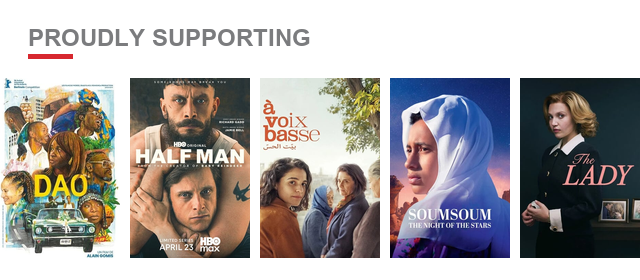
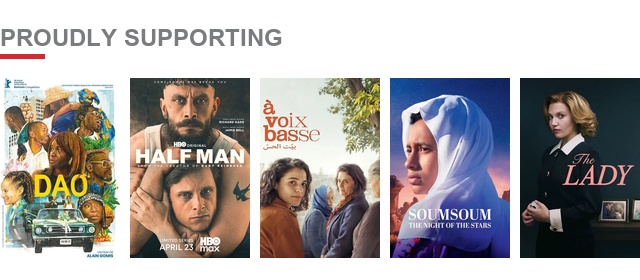
Headline: flush-left to match edge-to-edge poster row

Changed region(s): [[0.0, 0.0857, 0.5, 0.2286]]

diff --git a/banner/compositor.py b/banner/compositor.py
@@ -120,10 +120,10 @@ def compose(credits: List[Credit]) -> Image.Image:
     img = Image.new("RGBA", (W, H), (0, 0, 0, 0))
     draw = ImageDraw.Draw(img)
 
-    # --- "PROUDLY SUPPORTING" left-aligned with padding ---
+    # --- "PROUDLY SUPPORTING" flush-left, aligned with edge-to-edge poster row ---
     font_supporting = _load_font(FONT_BOLD_CANDIDATES, 12)
     text = "PROUDLY SUPPORTING"
-    text_x = 14 * SCALE  # align with poster row's left edge
+    text_x = 0  # flush with banner's left edge (matches edge-to-edge posters)
     text_y_display = 12
     text_y = text_y_display * SCALE
     draw.text((text_x, text_y), text, font=font_supporting, fill=COLOR_TEXT)
